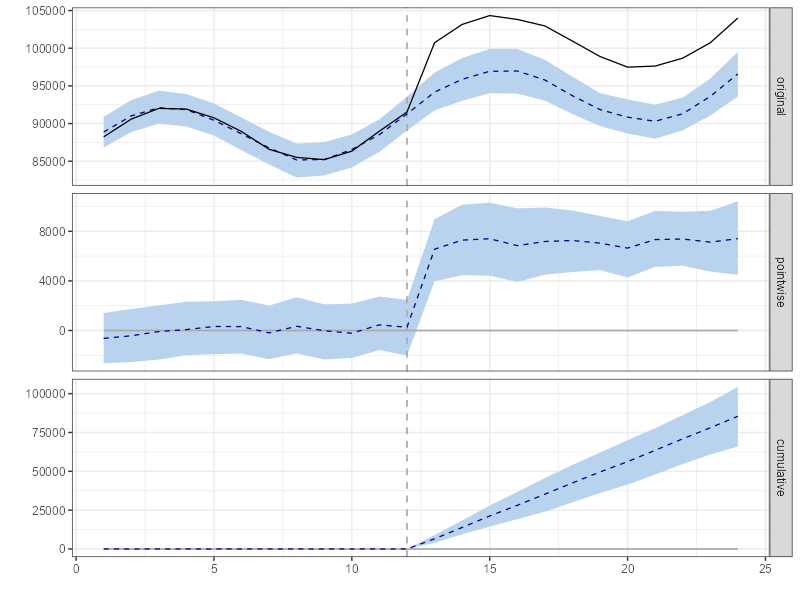
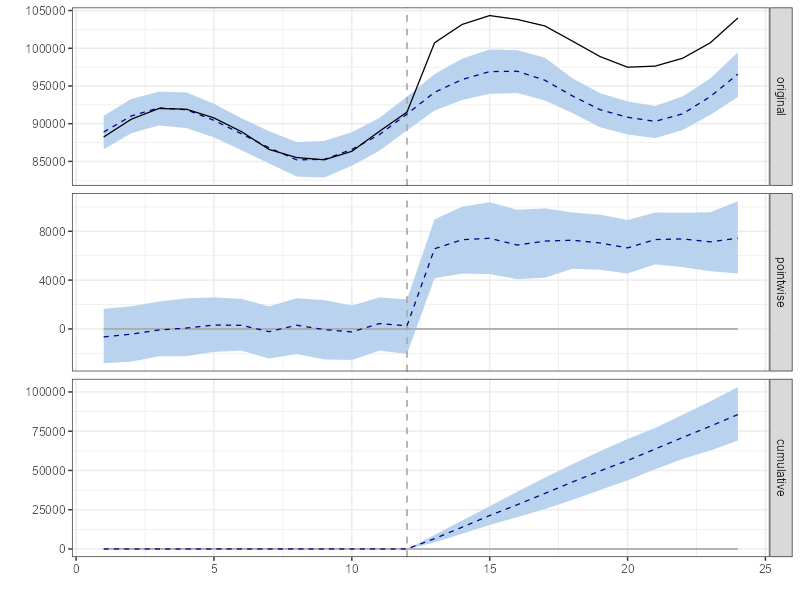
up

diff --git a/Marketing_causal_inference/Script R- Marketing e inferência causal.html b/Marketing_causal_inference/Script R- Marketing e inferência causal.html
@@ -1496,8 +1496,8 @@ Viés DiD + Cov + Pesos:     -123.59  ( -2.1 %)</code></pre>
 <h2 class="anchored" data-anchor-id="section-3">————————————————————</h2>
 <hr>
 </section>
-<section id="differença-em-diferenças-com-efeitos-fixos-bidirecionais-twfe" class="level2">
-<h2 class="anchored" data-anchor-id="differença-em-diferenças-com-efeitos-fixos-bidirecionais-twfe">Differença-em-Diferenças com Efeitos Fixos Bidirecionais (TWFE)</h2>
+<section id="diferença-em-diferenças-com-efeitos-fixos-bidirecionais-twfe" class="level2">
+<h2 class="anchored" data-anchor-id="diferença-em-diferenças-com-efeitos-fixos-bidirecionais-twfe">Diferença-em-Diferenças com Efeitos Fixos Bidirecionais (TWFE)</h2>
 <p><img src="img/did_TWFE.png" class="img-fluid" width="900"></p>
 <p>………………………………………………………………………………………………………………………………………………………</p>
 <section id="o-que-é-did-twfe" class="level3">
@@ -3443,77 +3443,80 @@ Viés vs real:     R$ 1108.14  ( 18.4 %)
 </div>
 </div>
 </div>
-<div id="cell-67" class="cell" data-execution_count="47">
+<div id="cell-67" class="cell" data-execution_count="84">
 <div class="sourceCode cell-code" id="cb73"><pre class="sourceCode r code-with-copy"><code class="sourceCode r"><span id="cb73-1"><a href="#cb73-1" aria-hidden="true" tabindex="-1"></a><span class="co"># ============================================</span></span>
 <span id="cb73-2"><a href="#cb73-2" aria-hidden="true" tabindex="-1"></a><span class="co"># ABORDAGEM 3: MULTIVARIADO (TODAS COVARIÁVEIS)</span></span>
 <span id="cb73-3"><a href="#cb73-3" aria-hidden="true" tabindex="-1"></a><span class="co"># ============================================</span></span>
 <span id="cb73-4"><a href="#cb73-4" aria-hidden="true" tabindex="-1"></a></span>
 <span id="cb73-5"><a href="#cb73-5" aria-hidden="true" tabindex="-1"></a><span class="fu">cat</span>(<span class="st">"</span><span class="sc">\n</span><span class="st">=== ABORDAGEM 3: CAUSALIMPACT MULTIVARIADO ===</span><span class="sc">\n\n</span><span class="st">"</span>)</span>
 <span id="cb73-6"><a href="#cb73-6" aria-hidden="true" tabindex="-1"></a><span class="fu">cat</span>(<span class="st">"Modelo: Série das tratadas + múltiplas covariáveis</span><span class="sc">\n</span><span class="st">"</span>)</span>
-<span id="cb73-7"><a href="#cb73-7" aria-hidden="true" tabindex="-1"></a><span class="fu">cat</span>(<span class="st">"Covariáveis: Vendas controle + renda + internet + concorrentes</span><span class="sc">\n\n</span><span class="st">"</span>)</span>
+<span id="cb73-7"><a href="#cb73-7" aria-hidden="true" tabindex="-1"></a><span class="fu">cat</span>(<span class="st">"Covariáveis:  renda + internet + concorrentes</span><span class="sc">\n\n</span><span class="st">"</span>)</span>
 <span id="cb73-8"><a href="#cb73-8" aria-hidden="true" tabindex="-1"></a></span>
 <span id="cb73-9"><a href="#cb73-9" aria-hidden="true" tabindex="-1"></a><span class="co"># Todas as variáveis disponíveis</span></span>
 <span id="cb73-10"><a href="#cb73-10" aria-hidden="true" tabindex="-1"></a>ts_multivariado <span class="ot">&lt;-</span> <span class="fu">zoo</span>(</span>
 <span id="cb73-11"><a href="#cb73-11" aria-hidden="true" tabindex="-1"></a>  dados_ci_base <span class="sc">%&gt;%</span> <span class="fu">select</span>(</span>
 <span id="cb73-12"><a href="#cb73-12" aria-hidden="true" tabindex="-1"></a>    vendas_tratadas,      <span class="co"># Resposta</span></span>
-<span id="cb73-13"><a href="#cb73-13" aria-hidden="true" tabindex="-1"></a>    vendas_controle,      <span class="co"># Covariável 1</span></span>
-<span id="cb73-14"><a href="#cb73-14" aria-hidden="true" tabindex="-1"></a>  ),</span>
-<span id="cb73-15"><a href="#cb73-15" aria-hidden="true" tabindex="-1"></a>  <span class="at">order.by =</span> dados_ci_base<span class="sc">$</span>periodo</span>
-<span id="cb73-16"><a href="#cb73-16" aria-hidden="true" tabindex="-1"></a>)</span>
-<span id="cb73-17"><a href="#cb73-17" aria-hidden="true" tabindex="-1"></a></span>
-<span id="cb73-18"><a href="#cb73-18" aria-hidden="true" tabindex="-1"></a><span class="co"># Rodar modelo</span></span>
-<span id="cb73-19"><a href="#cb73-19" aria-hidden="true" tabindex="-1"></a>impacto_multi <span class="ot">&lt;-</span> <span class="fu">CausalImpact</span>(ts_multivariado, pre_period, post_period)</span>
+<span id="cb73-13"><a href="#cb73-13" aria-hidden="true" tabindex="-1"></a>    vendas_controle,      <span class="co"># Covariável principal</span></span>
+<span id="cb73-14"><a href="#cb73-14" aria-hidden="true" tabindex="-1"></a>    renda_controle,       <span class="co"># Covariável 2</span></span>
+<span id="cb73-15"><a href="#cb73-15" aria-hidden="true" tabindex="-1"></a>    internet_controle,    <span class="co"># Covariável 3</span></span>
+<span id="cb73-16"><a href="#cb73-16" aria-hidden="true" tabindex="-1"></a>    concorrentes_controle <span class="co"># Covariável 4</span></span>
+<span id="cb73-17"><a href="#cb73-17" aria-hidden="true" tabindex="-1"></a>  ),</span>
+<span id="cb73-18"><a href="#cb73-18" aria-hidden="true" tabindex="-1"></a>  <span class="at">order.by =</span> dados_ci_base<span class="sc">$</span>periodo</span>
+<span id="cb73-19"><a href="#cb73-19" aria-hidden="true" tabindex="-1"></a>)</span>
 <span id="cb73-20"><a href="#cb73-20" aria-hidden="true" tabindex="-1"></a></span>
-<span id="cb73-21"><a href="#cb73-21" aria-hidden="true" tabindex="-1"></a><span class="co"># Resultados</span></span>
-<span id="cb73-22"><a href="#cb73-22" aria-hidden="true" tabindex="-1"></a><span class="fu">print</span>(<span class="fu">summary</span>(impacto_multi))</span>
-<span id="cb73-23"><a href="#cb73-23" aria-hidden="true" tabindex="-1"></a><span class="fu">plot</span>(impacto_multi)</span>
-<span id="cb73-24"><a href="#cb73-24" aria-hidden="true" tabindex="-1"></a></span>
-<span id="cb73-25"><a href="#cb73-25" aria-hidden="true" tabindex="-1"></a><span class="co"># Extrair métricas</span></span>
-<span id="cb73-26"><a href="#cb73-26" aria-hidden="true" tabindex="-1"></a>efeito_multi <span class="ot">&lt;-</span> impacto_multi<span class="sc">$</span>summary<span class="sc">$</span>AbsEffect[<span class="dv">1</span>]</span>
-<span id="cb73-27"><a href="#cb73-27" aria-hidden="true" tabindex="-1"></a>efeito_multi_lower <span class="ot">&lt;-</span> impacto_multi<span class="sc">$</span>summary<span class="sc">$</span>AbsEffect.lower[<span class="dv">1</span>]</span>
-<span id="cb73-28"><a href="#cb73-28" aria-hidden="true" tabindex="-1"></a>efeito_multi_upper <span class="ot">&lt;-</span> impacto_multi<span class="sc">$</span>summary<span class="sc">$</span>AbsEffect.upper[<span class="dv">1</span>]</span>
-<span id="cb73-29"><a href="#cb73-29" aria-hidden="true" tabindex="-1"></a>prob_multi <span class="ot">&lt;-</span> impacto_multi<span class="sc">$</span>summary<span class="sc">$</span>p[<span class="dv">1</span>]</span>
-<span id="cb73-30"><a href="#cb73-30" aria-hidden="true" tabindex="-1"></a></span>
-<span id="cb73-31"><a href="#cb73-31" aria-hidden="true" tabindex="-1"></a><span class="fu">cat</span>(<span class="st">"</span><span class="sc">\n</span><span class="st">--- RESUMO MULTIVARIADO ---</span><span class="sc">\n</span><span class="st">"</span>)</span>
-<span id="cb73-32"><a href="#cb73-32" aria-hidden="true" tabindex="-1"></a><span class="fu">cat</span>(<span class="st">"Efeito médio:     R$"</span>, <span class="fu">round</span>(efeito_multi, <span class="dv">2</span>), <span class="st">"</span><span class="sc">\n</span><span class="st">"</span>)</span>
-<span id="cb73-33"><a href="#cb73-33" aria-hidden="true" tabindex="-1"></a><span class="fu">cat</span>(<span class="st">"IC 95%:           ["</span>, <span class="fu">round</span>(efeito_multi_lower, <span class="dv">2</span>), <span class="st">","</span>, </span>
-<span id="cb73-34"><a href="#cb73-34" aria-hidden="true" tabindex="-1"></a>    <span class="fu">round</span>(efeito_multi_upper, <span class="dv">2</span>), <span class="st">"]</span><span class="sc">\n</span><span class="st">"</span>)</span>
-<span id="cb73-35"><a href="#cb73-35" aria-hidden="true" tabindex="-1"></a><span class="fu">cat</span>(<span class="st">"Probabilidade:    "</span>, <span class="fu">round</span>(prob_multi <span class="sc">*</span> <span class="dv">100</span>, <span class="dv">2</span>), <span class="st">"%</span><span class="sc">\n</span><span class="st">"</span>)</span>
-<span id="cb73-36"><a href="#cb73-36" aria-hidden="true" tabindex="-1"></a><span class="fu">cat</span>(<span class="st">"Viés vs real:     R$"</span>, <span class="fu">round</span>(efeito_multi <span class="sc">-</span> efeito_verdadeiro, <span class="dv">2</span>), </span>
-<span id="cb73-37"><a href="#cb73-37" aria-hidden="true" tabindex="-1"></a>    <span class="st">" ("</span>, <span class="fu">round</span>(<span class="dv">100</span><span class="sc">*</span>(efeito_multi <span class="sc">-</span> efeito_verdadeiro)<span class="sc">/</span>efeito_verdadeiro, <span class="dv">1</span>), <span class="st">"%)</span><span class="sc">\n\n</span><span class="st">"</span>)</span>
-<span id="cb73-38"><a href="#cb73-38" aria-hidden="true" tabindex="-1"></a></span></code><button title="Copy to Clipboard" class="code-copy-button"><i class="bi"></i></button></pre></div>
+<span id="cb73-21"><a href="#cb73-21" aria-hidden="true" tabindex="-1"></a><span class="co"># Rodar modelo</span></span>
+<span id="cb73-22"><a href="#cb73-22" aria-hidden="true" tabindex="-1"></a>impacto_multi <span class="ot">&lt;-</span> <span class="fu">CausalImpact</span>(ts_multivariado, pre_period, post_period)</span>
+<span id="cb73-23"><a href="#cb73-23" aria-hidden="true" tabindex="-1"></a></span>
+<span id="cb73-24"><a href="#cb73-24" aria-hidden="true" tabindex="-1"></a><span class="co"># Resultados</span></span>
+<span id="cb73-25"><a href="#cb73-25" aria-hidden="true" tabindex="-1"></a><span class="fu">print</span>(<span class="fu">summary</span>(impacto_multi))</span>
+<span id="cb73-26"><a href="#cb73-26" aria-hidden="true" tabindex="-1"></a><span class="fu">plot</span>(impacto_multi)</span>
+<span id="cb73-27"><a href="#cb73-27" aria-hidden="true" tabindex="-1"></a></span>
+<span id="cb73-28"><a href="#cb73-28" aria-hidden="true" tabindex="-1"></a><span class="co"># Extrair métricas</span></span>
+<span id="cb73-29"><a href="#cb73-29" aria-hidden="true" tabindex="-1"></a>efeito_multi <span class="ot">&lt;-</span> impacto_multi<span class="sc">$</span>summary<span class="sc">$</span>AbsEffect[<span class="dv">1</span>]</span>
+<span id="cb73-30"><a href="#cb73-30" aria-hidden="true" tabindex="-1"></a>efeito_multi_lower <span class="ot">&lt;-</span> impacto_multi<span class="sc">$</span>summary<span class="sc">$</span>AbsEffect.lower[<span class="dv">1</span>]</span>
+<span id="cb73-31"><a href="#cb73-31" aria-hidden="true" tabindex="-1"></a>efeito_multi_upper <span class="ot">&lt;-</span> impacto_multi<span class="sc">$</span>summary<span class="sc">$</span>AbsEffect.upper[<span class="dv">1</span>]</span>
+<span id="cb73-32"><a href="#cb73-32" aria-hidden="true" tabindex="-1"></a>prob_multi <span class="ot">&lt;-</span> impacto_multi<span class="sc">$</span>summary<span class="sc">$</span>p[<span class="dv">1</span>]</span>
+<span id="cb73-33"><a href="#cb73-33" aria-hidden="true" tabindex="-1"></a></span>
+<span id="cb73-34"><a href="#cb73-34" aria-hidden="true" tabindex="-1"></a><span class="fu">cat</span>(<span class="st">"</span><span class="sc">\n</span><span class="st">--- RESUMO MULTIVARIADO ---</span><span class="sc">\n</span><span class="st">"</span>)</span>
+<span id="cb73-35"><a href="#cb73-35" aria-hidden="true" tabindex="-1"></a><span class="fu">cat</span>(<span class="st">"Efeito médio:     R$"</span>, <span class="fu">round</span>(efeito_multi, <span class="dv">2</span>), <span class="st">"</span><span class="sc">\n</span><span class="st">"</span>)</span>
+<span id="cb73-36"><a href="#cb73-36" aria-hidden="true" tabindex="-1"></a><span class="fu">cat</span>(<span class="st">"IC 95%:           ["</span>, <span class="fu">round</span>(efeito_multi_lower, <span class="dv">2</span>), <span class="st">","</span>, </span>
+<span id="cb73-37"><a href="#cb73-37" aria-hidden="true" tabindex="-1"></a>    <span class="fu">round</span>(efeito_multi_upper, <span class="dv">2</span>), <span class="st">"]</span><span class="sc">\n</span><span class="st">"</span>)</span>
+<span id="cb73-38"><a href="#cb73-38" aria-hidden="true" tabindex="-1"></a><span class="fu">cat</span>(<span class="st">"Probabilidade:    "</span>, <span class="fu">round</span>(prob_multi <span class="sc">*</span> <span class="dv">100</span>, <span class="dv">2</span>), <span class="st">"%</span><span class="sc">\n</span><span class="st">"</span>)</span>
+<span id="cb73-39"><a href="#cb73-39" aria-hidden="true" tabindex="-1"></a><span class="fu">cat</span>(<span class="st">"Viés vs real:     R$"</span>, <span class="fu">round</span>(efeito_multi <span class="sc">-</span> efeito_verdadeiro, <span class="dv">2</span>), </span>
+<span id="cb73-40"><a href="#cb73-40" aria-hidden="true" tabindex="-1"></a>    <span class="st">" ("</span>, <span class="fu">round</span>(<span class="dv">100</span><span class="sc">*</span>(efeito_multi <span class="sc">-</span> efeito_verdadeiro)<span class="sc">/</span>efeito_verdadeiro, <span class="dv">1</span>), <span class="st">"%)</span><span class="sc">\n\n</span><span class="st">"</span>)</span>
+<span id="cb73-41"><a href="#cb73-41" aria-hidden="true" tabindex="-1"></a></span></code><button title="Copy to Clipboard" class="code-copy-button"><i class="bi"></i></button></pre></div>
 <div class="cell-output cell-output-stdout">
 <pre><code>
 === ABORDAGEM 3: CAUSALIMPACT MULTIVARIADO ===
 
 Modelo: Série das tratadas + múltiplas covariáveis
-Covariáveis: Vendas controle + renda + internet + concorrentes
+Covariáveis:  renda + internet + concorrentes
 
 Posterior inference {CausalImpact}
 
                          Average          Cumulative        
 Actual                   101115           1213376           
-Prediction (s.d.)        93994 (806)      1127931 (9672)    
-95% CI                   [92422, 95620]   [1109065, 1147443]
+Prediction (s.d.)        93982 (741)      1127786 (8897)    
+95% CI                   [92516, 95360]   [1110195, 1144317]
                                                             
-Absolute effect (s.d.)   7120 (806)       85445 (9672)      
-95% CI                   [5494, 8693]     [65932, 104310]   
+Absolute effect (s.d.)   7132 (741)       85590 (8897)      
+95% CI                   [5755, 8598]     [69058, 103181]   
                                                             
-Relative effect (s.d.)   7.6% (0.92%)     7.6% (0.92%)      
-95% CI                   [5.7%, 9.4%]     [5.7%, 9.4%]      
+Relative effect (s.d.)   7.6% (0.85%)     7.6% (0.85%)      
+95% CI                   [6%, 9.3%]       [6%, 9.3%]        
 
-Posterior tail-area probability p:   0.00101
-Posterior prob. of a causal effect:  99.8993%
+Posterior tail-area probability p:   0.00109
+Posterior prob. of a causal effect:  99.8913%
 
 For more details, type: summary(impact, "report")
 
 NULL
 
 --- RESUMO MULTIVARIADO ---
-Efeito médio:     R$ 7120.42 
-IC 95%:           [ 5494.37 , 8692.52 ]
-Probabilidade:     0.1 %
-Viés vs real:     R$ 1108.14  ( 18.4 %)
+Efeito médio:     R$ 7132.49 
+IC 95%:           [ 5754.87 , 8598.41 ]
+Probabilidade:     0.11 %
+Viés vs real:     R$ 1120.21  ( 18.6 %)
 </code></pre>
 </div>
 <div class="cell-output cell-output-display">
@@ -3524,7 +3527,7 @@ Viés vs real:     R$ 1108.14  ( 18.4 %)
 </div>
 </div>
 </div>
-<div id="cell-68" class="cell" data-execution_count="48">
+<div id="cell-68" class="cell" data-execution_count="85">
 <div class="sourceCode cell-code" id="cb75"><pre class="sourceCode r code-with-copy"><code class="sourceCode r"><span id="cb75-1"><a href="#cb75-1" aria-hidden="true" tabindex="-1"></a><span class="co"># ============================================</span></span>
 <span id="cb75-2"><a href="#cb75-2" aria-hidden="true" tabindex="-1"></a><span class="co"># COMPARAÇÃO DAS 3 ABORDAGENS</span></span>
 <span id="cb75-3"><a href="#cb75-3" aria-hidden="true" tabindex="-1"></a><span class="co"># ============================================</span></span>
@@ -3558,16 +3561,16 @@ Viés vs real:     R$ 1108.14  ( 18.4 %)
                          Abordagem    Efeito  IC_Lower  IC_Upper Probabilidade     Vies Erro_Pct
 1     Univariado (sem covariáveis) 12270.785 10172.065 14259.562   0.001014199 6258.503    104.1
 2      Bivariado (vendas controle)  7120.424  5643.856  8614.390   0.001007049 1108.143     18.4
-3 Multivariado (todas covariáveis)  7120.424  5494.373  8692.517   0.001007049 1108.143     18.4
+3 Multivariado (todas covariáveis)  7132.490  5754.873  8598.412   0.001086957 1120.209     18.6
 4                Efeito Verdadeiro  6012.281        NA        NA            NA    0.000      0.0
   Amplitude_IC
 1     4087.498
 2     2970.534
-3     3198.144
+3     2843.539
 4           NA</code></pre>
 </div>
 </div>
-<div id="cell-69" class="cell" data-execution_count="52">
+<div id="cell-69" class="cell" data-execution_count="86">
 <div class="sourceCode cell-code" id="cb77"><pre class="sourceCode r code-with-copy"><code class="sourceCode r"><span id="cb77-1"><a href="#cb77-1" aria-hidden="true" tabindex="-1"></a><span class="co"># ============================================</span></span>
 <span id="cb77-2"><a href="#cb77-2" aria-hidden="true" tabindex="-1"></a><span class="co"># INTERPRETAÇÃO BAYESIANA</span></span>
 <span id="cb77-3"><a href="#cb77-3" aria-hidden="true" tabindex="-1"></a><span class="co"># ============================================</span></span>
@@ -3589,7 +3592,7 @@ Viés vs real:     R$ 1108.14  ( 18.4 %)
 Probabilidade de efeito positivo:
   Univariado:    99.9 %
   Bivariado:     99.9 %
-  Multivariado:  99.9 %
+  Multivariado:  99.89 %
 
 Interpretação:
 'Há X% de probabilidade posterior de que o efeito seja positivo,
@@ -5314,6 +5317,12 @@ Por outro lado, técnicas modernas de reponderação e controle sintético (Entr
 <td>6.280</td>
 <td>+4.4%</td>
 <td>SC + DiD</td>
+</tr>
+<tr class="odd">
+<td>Média dos modelos</td>
+<td>6.024</td>
+<td>+0.001%</td>
+<td>⭐⭐⭐⭐⭐⭐</td>
 </tr>
 </tbody>
 </table>
